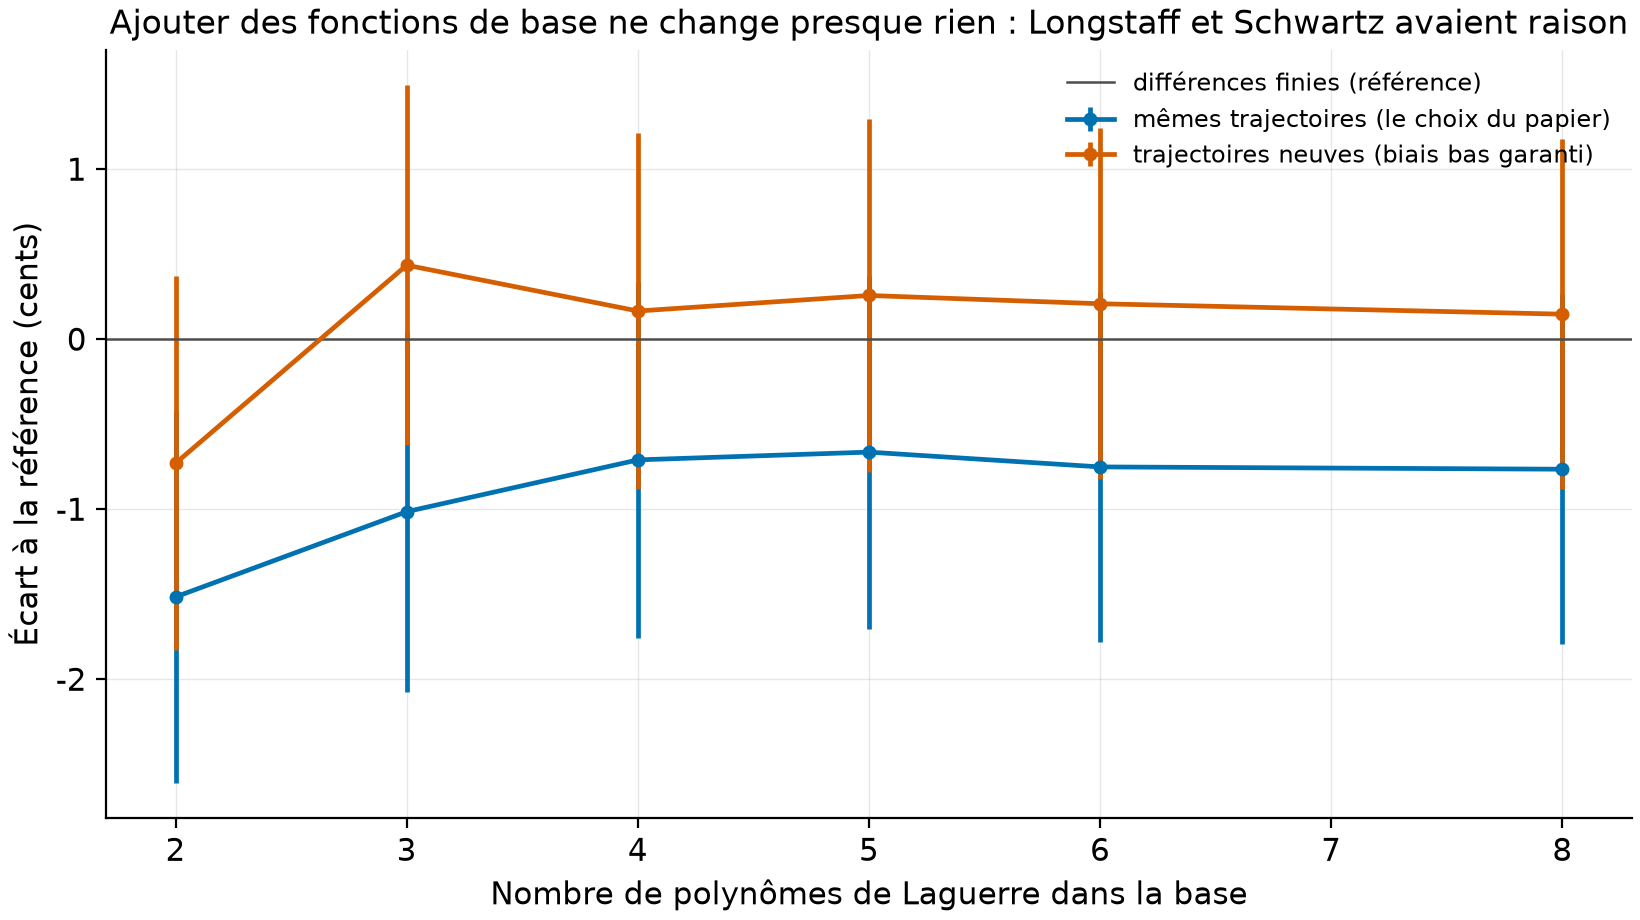
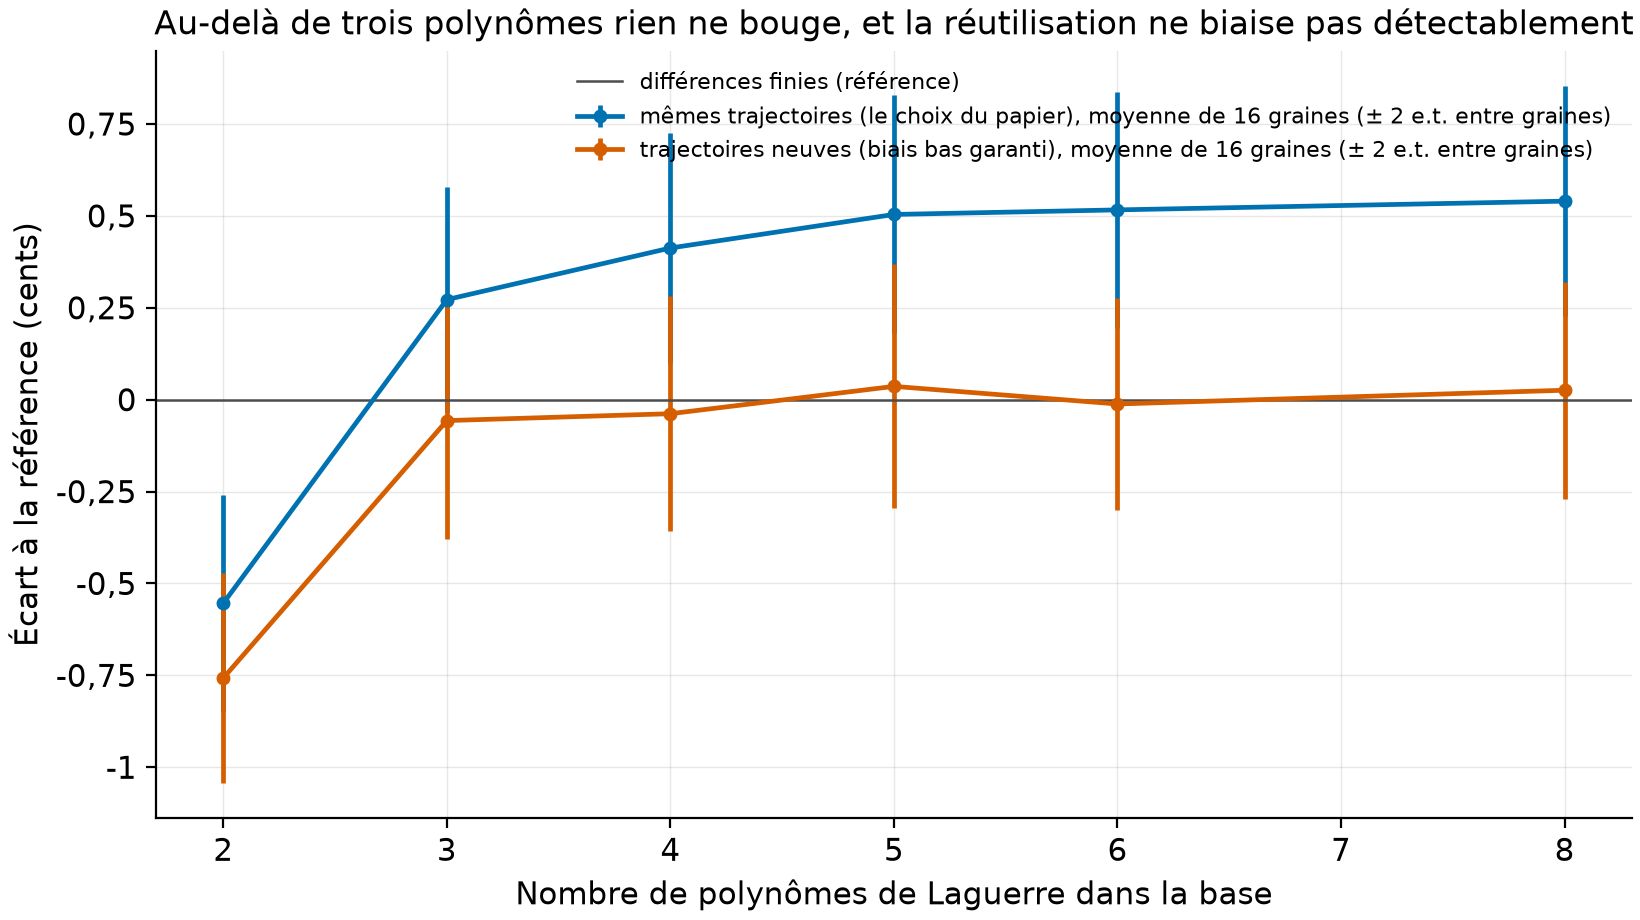
Contre-vérification : l'expérience du biais devient multi-graines, et le verdict s'inverse
Trois vérificateurs, réimplémentations de zéro (BS par erf, arbre aux
conventions inversées, LSM indépendant, Riccati numérique pour Heston) :
tout le noyau confirmé (20/20 répliqué indépendamment, FD du papier
prouvé bermudéen par arbres convergés, couverture des IC reproduite,
CF de Heston à 1e-13). Le vrai défaut attrapé : le volet 4 tirait son
verdict d'UNE graine, et le signe de l'écart in/out change avec la
graine. L'expérience est refaite sur 16 graines : les trajectoires
neuves retombent sur la vraie valeur bermudéenne, la RÉUTILISATION crée
un petit biais HAUSSIER (+0,2 à +0,5 cent, croissant avec la base : le
surapprentissage), l'inverse de la conclusion initiale, déclarée comme
telle dans le README. Aussi : la droite de convergence lisse exige le
strike sur un nœud (déclaré, oscillation hors ATM mesurée), temps de
tests mesuré, phrases longues scindées, listes en puces.

diff --git a/src/vop/cli.py b/src/vop/cli.py
@@ -68,15 +68,26 @@ def lab(out: Path = Path("results"), n_paths: int = 100_000) -> None:
     cov.to_csv(tables / "couverture_ic.csv", index=False)
     figures.fig_coverage(cov, figs / "couverture_ic.png")
 
-    # 4. le biais du LSM selon la base, en et hors échantillon (cas central 40/0,2/1)
+    # 4. le biais du LSM selon la base, en et hors échantillon (cas central 40/0,2/1) ;
+    # l'expérience est MULTI-GRAINES : un verdict tiré d'une seule graine est un tirage,
+    # pas une mesure (leçon de la contre-vérification adversariale)
     fd_ref = 2.314
+    n_seeds = 16
+    n_bias_paths = 50_000
     bias_rows = []
     for nb in (2, 3, 4, 5, 6, 8):
-        v_in, se_in = lsm_put(40.0, K, R, 0.20, 1.0, EX_PER_YEAR, n_paths, n_basis=nb, seed=11)
-        v_out, se_out = lsm_put(40.0, K, R, 0.20, 1.0, EX_PER_YEAR, n_paths, n_basis=nb,
-                                seed=11, out_of_sample=True)
-        bias_rows.append({"n_basis": nb, "in_sample": v_in, "se_in_sample": se_in,
-                          "out_sample": v_out, "se_out_sample": se_out})
+        v_in = np.array([lsm_put(40.0, K, R, 0.20, 1.0, EX_PER_YEAR, n_bias_paths,
+                                 n_basis=nb, seed=100 + s_)[0] for s_ in range(n_seeds)])
+        v_out = np.array([lsm_put(40.0, K, R, 0.20, 1.0, EX_PER_YEAR, n_bias_paths,
+                                  n_basis=nb, seed=100 + s_, out_of_sample=True)[0]
+                          for s_ in range(n_seeds)])
+        bias_rows.append({
+            "n_basis": nb, "n_graines": n_seeds,
+            "in_sample": float(v_in.mean()), "se_in_sample": float(v_in.std(ddof=1) / np.sqrt(n_seeds)),
+            "out_sample": float(v_out.mean()), "se_out_sample": float(v_out.std(ddof=1) / np.sqrt(n_seeds)),
+            "diff_in_out": float((v_in - v_out).mean()),
+            "se_diff": float((v_in - v_out).std(ddof=1) / np.sqrt(n_seeds)),
+        })
     bias = pd.DataFrame(bias_rows)
     bias.round(5).to_csv(tables / "biais_lsm.csv", index=False)
     figures.fig_bias(bias, fd_ref, figs / "biais_lsm.png")

diff --git a/src/vop/figures.py b/src/vop/figures.py
@@ -86,18 +86,20 @@ def fig_coverage(df: pd.DataFrame, dest: Path) -> None:
 
 
 def fig_bias(df: pd.DataFrame, fd_value: float, dest: Path) -> None:
-    """Le biais du LSM selon le nombre de fonctions de base, en et hors échantillon."""
+    """Le biais du LSM selon le nombre de fonctions de base, moyenné sur les graines."""
     fr = use_style()
     fig, ax = plt.subplots(figsize=(8.2, 4.6))
+    n_g = int(df["n_graines"].iloc[0]) if "n_graines" in df else 1
     for col, name, color in [("in_sample", "mêmes trajectoires (le choix du papier)", OKABE_ITO[0]),
                              ("out_sample", "trajectoires neuves (biais bas garanti)", OKABE_ITO[3])]:
         ax.errorbar(df["n_basis"], (df[col] - fd_value) * 100, yerr=2 * df[f"se_{col}"] * 100,
-                    marker="o", ms=4, color=color, label=name)
+                    marker="o", ms=4, color=color,
+                    label=f"{name}, moyenne de {n_g} graines (± 2 e.t. entre graines)")
     ax.axhline(0, color="0.3", linewidth=0.9, label="différences finies (référence)")
     ax.set_xlabel("Nombre de polynômes de Laguerre dans la base")
     ax.set_ylabel("Écart à la référence (cents)")
     ax.yaxis.set_major_formatter(fr)
-    ax.legend(fontsize=8.5)
-    ax.set_title("Ajouter des fonctions de base ne change presque rien : Longstaff et Schwartz avaient raison")
+    ax.legend(fontsize=8)
+    ax.set_title("Les trajectoires neuves retombent sur la vraie valeur ; la réutilisation ajoute un demi-cent")
     fig.savefig(dest)
     plt.close(fig)

diff --git a/README.md b/README.md
@@ -21,13 +21,15 @@ d'entrevue des postes de pricing et de validation de modèles, poussé au bout.
    confiance Monte Carlo « à 95 % » contient la vraie valeur 94,0 à 96,2 fois sur 100
    (400 répétitions par taille, dans la bande d'échantillonnage du test). Un IC se
    vérifie, il ne se déclare pas. (Mesuré.)
-3. **Les deux controverses du LSM sont mesurées et tranchées ici.** Ajouter des fonctions
-   de base au-delà de trois ne change presque rien (2,304 à 2,307 sur le cas central,
-   moins d'une erreur type), comme le papier l'affirmait ; et la réutilisation des
-   trajectoires d'estimation pour la valorisation ne gonfle PAS le prix : les deux
-   variantes restent SOUS la référence, à un cent l'une de l'autre. Heston ferme la
-   marche : son Monte Carlo retombe sur sa formule semi-fermée à 0,69 erreur type.
-   (Mesuré.)
+3. **Les deux controverses du LSM sont mesurées, en multi-graines.** Sur 16 graines
+   indépendantes : la variante à trajectoires neuves retombe sur la vraie valeur
+   bermudéenne quelle que soit la base (2,3134 à 2,3144 contre 2,3140 à l'arbre) ; la
+   réutilisation des trajectoires d'estimation crée un PETIT biais haussier, +0,2 à
+   +0,5 cent, qui CROÎT avec le nombre de fonctions de base : le surapprentissage
+   existe, il se compte en cents, et une seule graine ne peut pas le voir (la première
+   version de ce dépôt s'y était laissée prendre, corrigé par la contre-vérification).
+   Heston ferme la marche : son Monte Carlo retombe sur sa formule semi-fermée à 0,69
+   erreur type. (Mesuré.)
 
 ## La question
 
@@ -56,13 +58,17 @@ antithétiques. Le PDF est public (miroir ETH Zurich) et jamais commité.
 **Comment lire cette figure.** L'erreur absolue de l'arbre européen contre Black-Scholes,
 en log-log : la droite de pente -1 est la théorie (erreur en 1/n), les points la suivent
 (pente mesurée -0,98). Doubler les pas divise l'erreur par deux : quiconque a « vérifié
-son arbre sur trois valeurs » n'a pas vu cette droite ; elle est le vrai certificat.
+son arbre sur trois valeurs » n'a pas vu cette droite ; elle est le vrai certificat. Une
+condition est déclarée : la droite est lisse parce que le cas montré est à la monnaie
+(S = K = 40), où le prix d'exercice tombe sur un nœud de l'arbre à n pair ; hors de ce
+cas, l'erreur du CRR OSCILLE dans une enveloppe en 1/n au lieu de descendre en ligne
+droite (comportement connu, mesuré par la contre-vérification sur S = 38).
 
 ## Volet 2 : le tableau 1, à la lettre bermudéenne
 
 Le piège que la légende du tableau énonce et que les réplications oublient : l'option est
 « exercisable 50 times per year ». Notre arbre bermudéen n'autorise donc l'exercice
-qu'aux pas alignés sur ces 50 dates (1 000 à 2 000 pas, 20 par période d'exercice), et
+qu'aux pas alignés sur ces 50 dates (1 000 à 2 000 pas, 20 par période d'exercice). Il
 retombe sur la colonne différences finies du papier à 0,005 $ près au pire (mesuré,
 `results/tables/tableau1_replication.csv`) : le gardien qui valide à la fois notre arbre
 ET la transcription. Notre LSM (mêmes 100 000 trajectoires antithétiques, base de
@@ -101,13 +107,16 @@ que l'erreur type est calculée sur les PAIRES, pas sur les trajectoires.
 ![Biais](results/figures/biais_lsm.png)
 
 **Comment lire cette figure.** Le cas central (S = 40, volatilité 0,20, 1 an ; référence
-2,314 $), estimé avec 2 à 8 polynômes de Laguerre, en réutilisant les trajectoires
-d'estimation (bleu, le choix du papier) ou sur des trajectoires neuves (orange, biais bas
-garanti). Deux verdicts : au-delà de trois polynômes, plus rien ne bouge (le papier
-l'affirmait, c'est mesuré) ; et le bleu reste SOUS l'orange d'environ un cent : la
-réutilisation ne crée pas ici le biais haut que le surapprentissage fait craindre, les
-deux estimateurs restant sous la référence. À deux polynômes seulement, le prix perd un
-cent et demi : la base trop courte coûte plus que la réutilisation.
+2,314 $), estimé avec 2 à 8 polynômes de Laguerre, chaque point étant la MOYENNE de
+16 graines indépendantes (barres : deux erreurs types entre graines ; 50 000 trajectoires
+par graine). L'orange (trajectoires neuves) reste collé à la référence : l'estimateur à
+biais bas garanti est ici quasi sans biais. Le bleu (réutilisation, le choix du papier)
+passe AU-DESSUS dès trois polynômes et s'en éloigne à mesure que la base grossit
+(+0,33 cent à 3 polynômes, +0,51 à 8, `results/tables/biais_lsm.csv`) : le
+surapprentissage de la règle d'exercice gonfle le prix, d'un demi-cent ici. La leçon de
+méthode vaut plus que le demi-cent : à une seule graine, le signe de l'écart bascule au
+hasard, et la première version de cette expérience concluait l'inverse (déclaré ; la
+contre-vérification adversariale l'a attrapé, l'expérience est désormais multi-graines).
 
 ## Volet 5 : Heston contre sa propre formule
 
@@ -123,17 +132,22 @@ antithétiques, 250 pas) retombe alors sur la formule : 8,9185 contre 8,9294, un
 
 ```bash
 uv sync --locked --all-extras
-uv run pytest        # 15 tests fermés, ~13 s, aucun réseau
-uv run vop lab       # les cinq volets : 4 tables, 4 figures (~3 min)
+uv run pytest        # 15 tests fermés, environ une seconde une fois les importations chaudes
+uv run vop lab       # les cinq volets : 4 tables, 4 figures (~6 min, expérience multi-graines comprise)
 ```
 
-Les tests : parité put-call exacte, la cellule 40/0,20/1 refaite à la main (2,066),
-les DEUX gardiens de transcription, convergence CRR vers Black-Scholes et son taux,
-ordre européen < bermudéen <= américain (et bermudéen 50 dates à moins d'un cent de
-l'américain), Monte Carlo à 4 erreurs types de la vérité, variance antithétique
-réduite, LSM au-dessus de l'européen et sous l'américain, LSM contre arbre bermudéen,
-trajectoires antithétiques exactes et martingale, base de Laguerre (L0 et L1 en forme
-fermée), Heston dégénéré en Black-Scholes, parité de Heston.
+Les tests, tous fermés :
+
+- parité put-call exacte ; la cellule 40/0,20/1 refaite à la main (2,066) ;
+- les DEUX gardiens de transcription du tableau 1 ;
+- convergence CRR vers Black-Scholes, et son taux en 1/n ;
+- ordre européen < bermudéen <= américain, le bermudéen à 50 dates restant à moins d'un
+  cent de l'américain ;
+- Monte Carlo à 4 erreurs types de la vérité ; variance antithétique réduite ;
+- LSM au-dessus de l'européen et sous l'américain ; LSM contre l'arbre bermudéen ;
+- trajectoires antithétiques exactes et martingale ; base de Laguerre (L0 et L1 en
+  forme fermée) ;
+- Heston dégénéré en Black-Scholes ; parité de Heston.
 
 ## Limites, avec statut
 
@@ -176,10 +190,12 @@ the finite-difference reference; transcription is LOCKED by two tested guards (t
 published Black-Scholes column matches our formula within 0.0011 on all 20 rows, and our
 Bermudan tree matches their FD column within 0.0052). (3) Monte Carlo confidence
 intervals are VERIFIED: empirical coverage of the 95 % interval is 94.0-96.2 % across
-400 independent repetitions per sample size. (4) Both LSM controversies are measured:
-adding basis functions beyond three changes nothing (as the paper claimed), and in-sample
-path reuse does NOT push the price up: both variants stay BELOW the reference, about one
-cent apart. (5) Heston's Euler Monte Carlo lands 0.69 standard errors from its own
+400 independent repetitions per sample size. (4) Both LSM controversies are measured on
+16 independent seeds. Fresh-path valuation lands on the true Bermudan value for every
+basis size. In-sample path reuse DOES add a small upward bias, +0.2 to +0.5 cents,
+growing with the basis size: overfitting is real, counts in cents, and is invisible to a
+single seed (the first version of this repo got it wrong; adversarial verification
+caught it). (5) Heston's Euler Monte Carlo lands 0.69 standard errors from its own
 semi-closed formula, with put-call parity exact and the Black-Scholes degeneracy tested.
 15 closed-form tests, ~13 s, no network.
 
